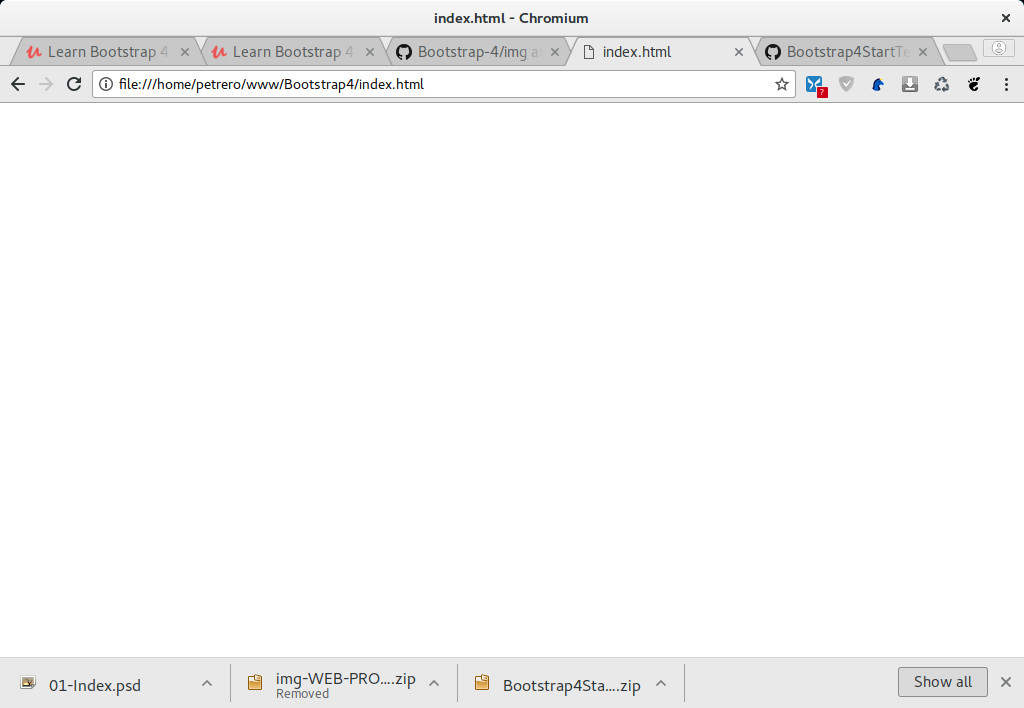
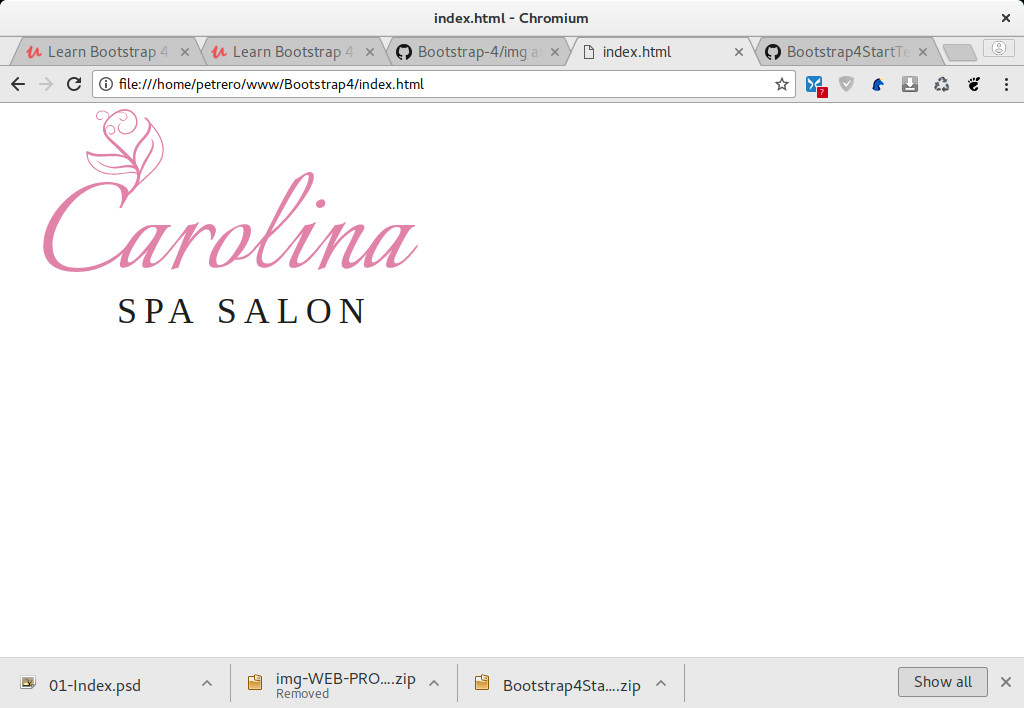
Images are displayed inline by default. Display the image as block with d-block class and auto center the margin-right and margin-left with mx-auto class.

diff --git a/index.html b/index.html
@@ -10,7 +10,7 @@
   <body>
     <header class="site-header container">
       <div class="row justify-content-between">
-        <img src="img/logo.svg" alt="" class="img-fluid" />
+        <img src="img/logo.svg" alt="" class="img-fluid mx-auto d-block" />
       </div>
     </header>
     
